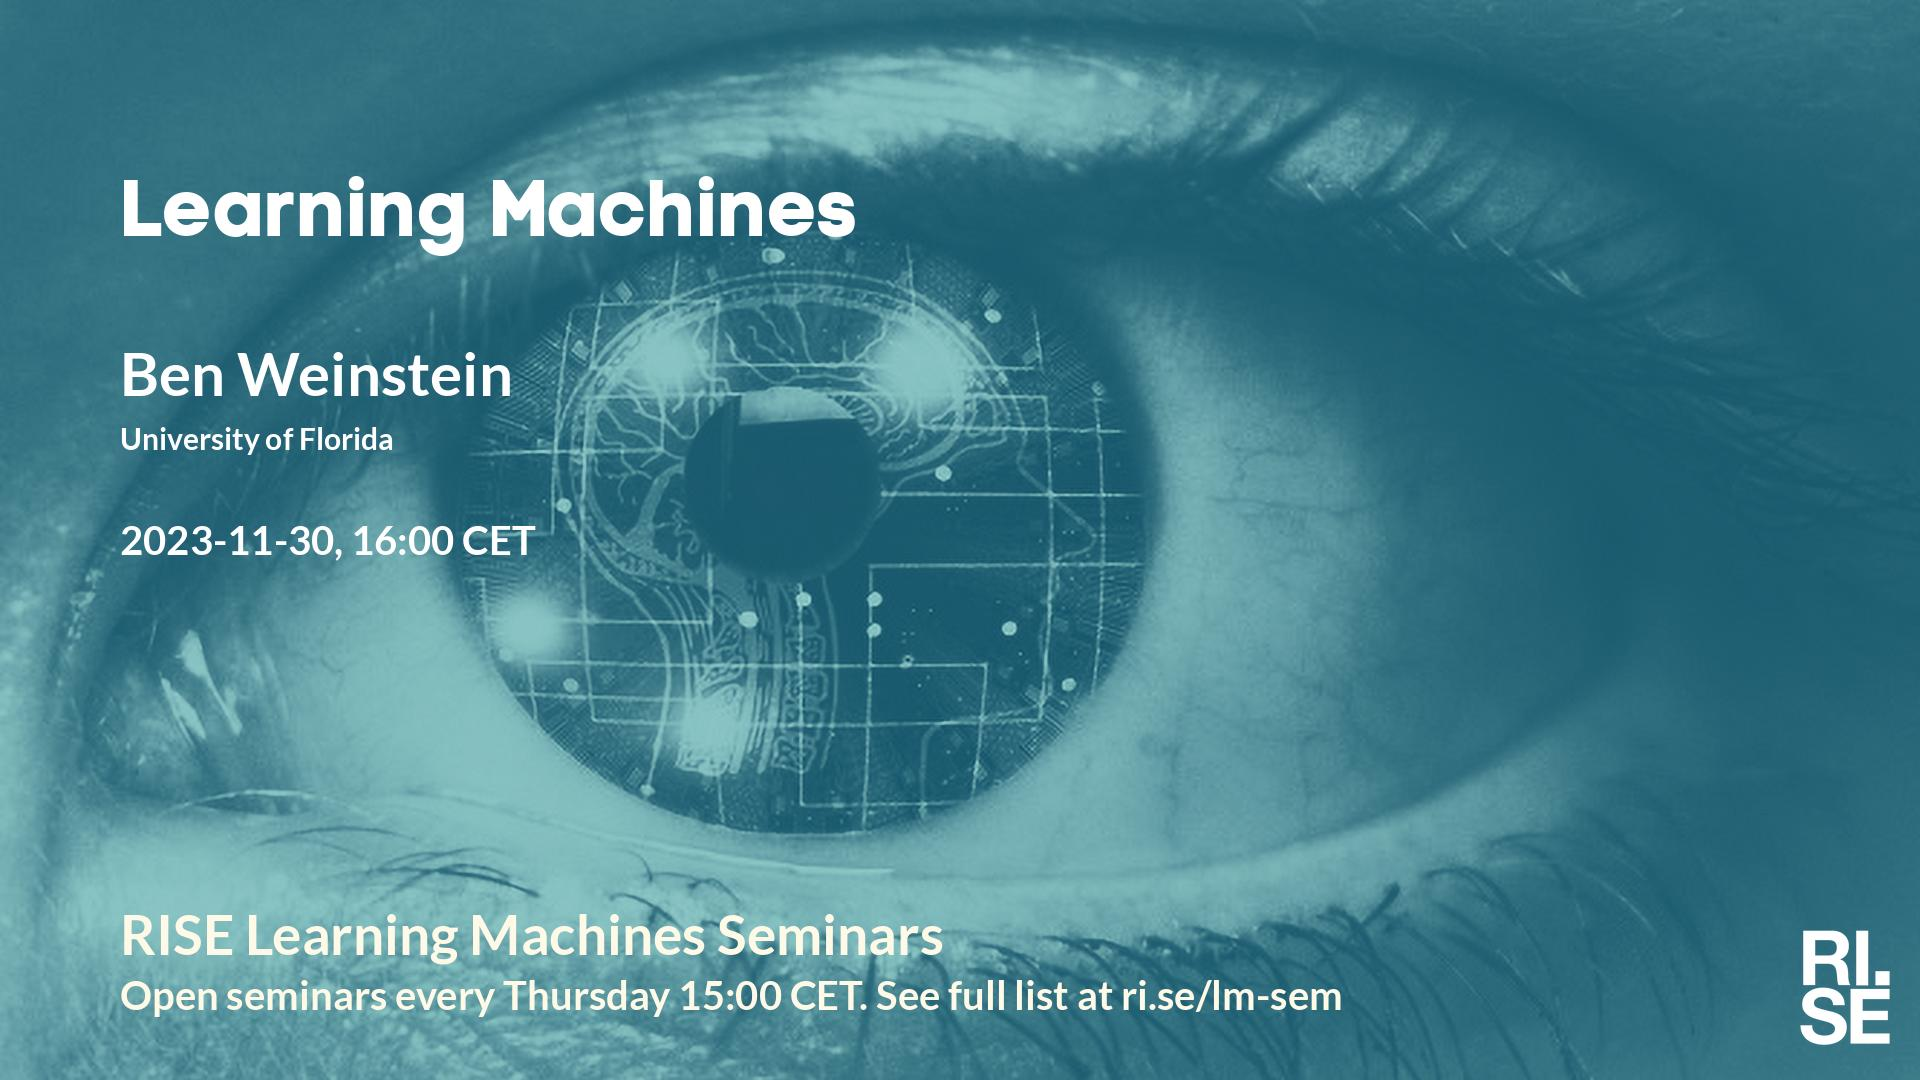
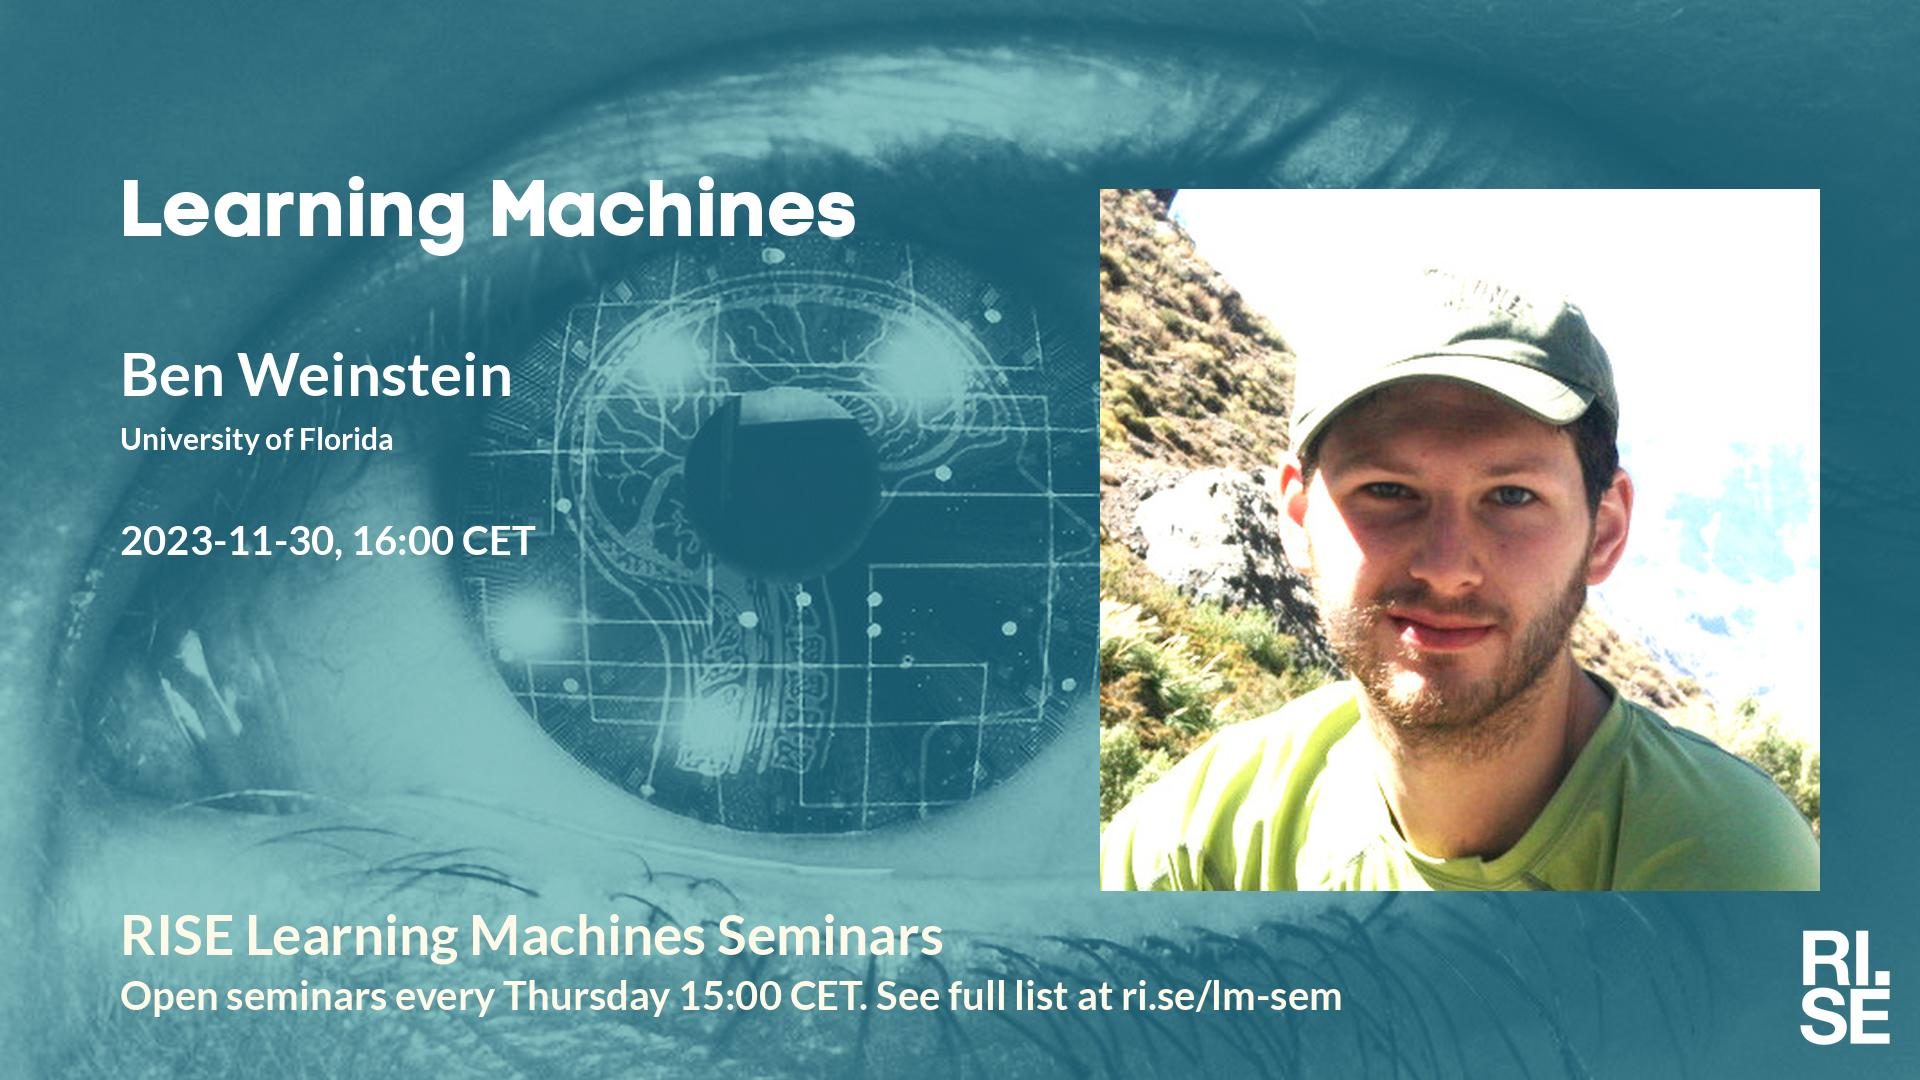
Updated plan on web site.

Changed region(s): [[0.5625, 0.1528, 0.9688, 0.825]]

diff --git a/lm/index.md b/lm/index.md
@@ -19,7 +19,7 @@ table {border-collapse: collapse;}
 |  2023-11-09  |  [Nataša Sladoje, Uppsala University](2023-11-09.md)  |    |  [social media ](social-media-natasa-sladoje.jpg)  |  [meeting backdrop ](meeting-backdrop-natasa-sladoje.jpg)  |  [youtube thumbnail ](youtube-thumbnail-natasa-sladoje.jpg)  |  S~~TABP~~  |
 |  2023-11-16  |  [Jonas Hellgren, RISE](2023-11-16.md)  |    |  [social media ](social-media-jonas-hellgren.jpg)  |  [meeting backdrop ](meeting-backdrop-jonas-hellgren.jpg)  |  [youtube thumbnail ](youtube-thumbnail-jonas-hellgren.jpg)  |  ST~~ABP~~  |
 | <span style="color:red"> 2023-11-23 </span> | <span style="color:red"> Thanksgiving </span> | <span style="color:red">  </span> | <span style="color:red">  </span> | <span style="color:red">  </span> | <span style="color:red">  </span> | <span style="color:red"> CANCELLED </span> |
-|  2023-11-30  |  [Ben Weinstein, University of Florida](2023-11-30.md)  |    |  [social media ](social-media-ben-weinstein.jpg)  |  [meeting backdrop ](meeting-backdrop-ben-weinstein.jpg)  |  [youtube thumbnail ](youtube-thumbnail-ben-weinstein.jpg)  |  S~~TABP~~  |
+|  2023-11-30  |  [Ben Weinstein, University of Florida](2023-11-30.md)  |  [photo](photo-ben-weinstein.jpg)  |  [social media ](social-media-ben-weinstein.jpg)  |  [meeting backdrop ](meeting-backdrop-ben-weinstein.jpg)  |  [youtube thumbnail ](youtube-thumbnail-ben-weinstein.jpg)  |  S~~TAB~~P  |
 | <span style="color:grey"> 2023-12-07 </span> | <span style="color:grey"> Fredrik G. ? </span> | <span style="color:grey">  </span> | <span style="color:grey">  </span> | <span style="color:grey">  </span> | <span style="color:grey">  </span> | <span style="color:grey"> ?~~TABP~~ </span> |
 | <span style="color:purple"> 2023-12-14 </span> | <span style="color:purple"> *Up for grabs!!!* </span> | <span style="color:purple">  </span> | <span style="color:purple">  </span> | <span style="color:purple">  </span> | <span style="color:purple">  </span> | <span style="color:purple"> ~~STABP~~ </span> |
 | <span style="color:red"> 2023-12-21 </span> | <span style="color:red"> Christmas </span> | <span style="color:red">  </span> | <span style="color:red">  </span> | <span style="color:red">  </span> | <span style="color:red">  </span> | <span style="color:red"> CANCELLED </span> |
